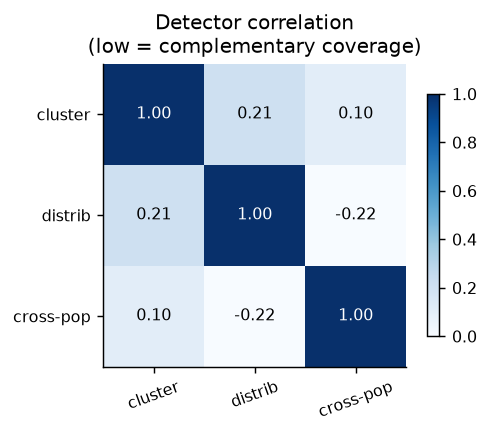
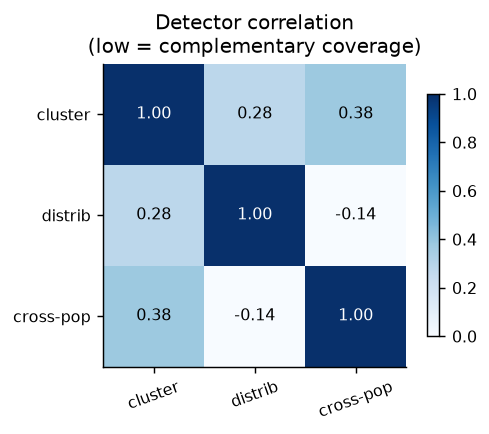
docs: update README documentation and add system configuration module

diff --git a/src/config.py b/src/config.py
@@ -15,7 +15,7 @@ SQL_DIR = ROOT / "sql"
 # ---------------------------------------------------------------------------
 # Point this at data/train.csv once your download finishes.
 # Keep data/train_synthetic.csv for fast iteration and CI.
-SOURCE_CSV = DATA_DIR / "train_synthetic.csv"
+SOURCE_CSV = DATA_DIR / "train.csv"
 DUCKDB_PATH = DATA_DIR / "fraud.duckdb"
 
 # ---------------------------------------------------------------------------
@@ -48,7 +48,7 @@ LEAKAGE_COLS = ["attributed_time"]
 # ---------------------------------------------------------------------------
 # The unit of analysis. Fraud lives in entities, not in individual clicks.
 ENTITY_KEYS = ["ip"]          # alternatives: ["ip","device","os"], ["channel"]
-MIN_CLICKS = 30               # entities below this are too sparse to judge
+MIN_CLICKS = 100              # entities below this are too sparse to judge
 
 # ---------------------------------------------------------------------------
 # Detector weights (ensemble)

diff --git a/README.md b/README.md
@@ -1,5 +1,117 @@
 # Reward Attribution Integrity System
 
+> TL;DR (for recruiters / quick scan)
+
+# Reward Attribution Integrity System
+
+**Detects fraudulent mobile-attribution traffic without labels, and translates model output into business decisions.**
+
+Built on ~185M rows of real clickstream data, this system identifies high-risk entities using behavioural anomalies (not conversions), and optimises intervention thresholds based on economic impact.
+
+---
+
+## Key Results
+
+**Synthetic validation (ground truth)**
+- ROC-AUC: 0.998  
+- PR-AUC: 0.974  
+- 97.6% of fraud captured in top 1%
+
+**Real data (TalkingData, proxy labels)**
+- ROC-AUC: 0.736  
+- PR-AUC: 0.078  
+- Precision @ top 1%: ~6%  
+
+---
+
+## Business Outcome
+
+At the recommended operating point:
+
+- Blocks: 573 entities (~0.75% of traffic)  
+- Precision: ~6%  
+- Legitimate users impacted: 0.72%  
+- Estimated value protected: **$792**  
+
+**Design choice:** prioritise catching high-cost fraud over maximising precision.  
+False positives tend to be low-activity users; true positives concentrate among high-volume actors driving disproportionate loss.
+
+---
+
+## What Makes This Different
+
+### 1. No label leakage — by design
+Detection uses only behavioural signals (timing, diversity, patterns).  
+Conversion labels are **strictly excluded** from features and enforced via tests.
+
+---
+
+### 2. Ensemble of complementary detectors
+- Clustering → coordinated fleets  
+- Timing distribution → bots / scripted behaviour  
+- Population drift → actors deviating from baseline  
+
+Scores are rank-normalised and combined to avoid scale dominance.
+
+---
+
+### 3. Decision layer, not just a model
+A threshold sweep maximises **net value**, not accuracy:
+
+- Fraud payout: $2  
+- False block cost: $5  
+
+This converts model output into a **clear stakeholder decision**.
+
+---
+
+### 4. Real-world constraint: detectability floor
+At a 0.17% base conversion rate: ~1,760 clicks required before “0 conversions” is statistically suspicious
+
+
+Low-volume fraud cannot be proven — only inferred.
+
+→ Explains gap between:
+- PR-AUC 0.974 (synthetic truth)
+- PR-AUC 0.078 (real proxy)
+
+The model detects behaviour the labels cannot confirm.
+
+---
+
+## System Design
+
+- DuckDB pipeline → processes 200M+ rows out-of-core  
+- Airflow DAG → daily runs with spike + drop alerting  
+- Streamlit dashboard → interactive threshold tuning  
+- 19 tests → includes leakage and statistical correctness checks  
+
+---
+
+## Example Fraud Signals
+
+Flagged entities typically show:
+- Near-zero variance in click timing (automation)
+- High volume with zero conversions
+- Flat 24h activity (non-human patterns)
+
+---
+
+## Run It
+
+```bash
+python scripts/make_synthetic_data.py --rows 1200000
+python -m src.pipeline
+streamlit run dashboard/app.py
+
+
+---
+
+
+## Full Project Breakdown
+
+# Reward Attribution Integrity System
+
 **Unsupervised detection of fraudulent mobile-attribution traffic, with an explicit sensitivity-vs-business-impact decision layer, running on an automated pipeline.**
 
 Roughly a quarter of global mobile ad spend is estimated lost to click farms, fake installs, SDK spoofing, and emulator farms. For a rewarded-advertising platform — where users earn real value for genuine engagement — fraud is not only a payout leak, it corrodes the value exchange the platform is built on.
@@ -7,12 +119,37 @@ Roughly a quarter of global mobile ad spend is estimated lost to click farms, fa
 This system detects fraudulent actors **without using conversion labels**, quantifies the tradeoff between catching fraud and wrongly blocking real users, and packages the result as a monitored daily pipeline rather than a one-off analysis.
 
 ```
-Detection quality      ROC-AUC 0.998  ·  PR-AUC 0.974  ·  97.6% recall in top 1% of scores
-Operating point        blocks 95% of fraudulent traffic while affecting 0.20% of legitimate entities
-Detector independence  pairwise score correlations 0.21 / 0.10 / −0.22 (complementary, not redundant)
-```
+Detection quality (synthetic, ground truth)
+ROC-AUC 0.998 · PR-AUC 0.974 · 97.6% recall in top 1%
 
+Detection quality (real data, proxy labels)
+ROC-AUC 0.736 · PR-AUC 0.078 · ~6.0% precision in top 1%
+```
+## Real Data Results (TalkingData)
+
+- Rows: 184,903,890
+- Conversion rate: 0.247%
+- Distinct IPs: 277,396
+- Entities analysed: 76,603
+
+Evaluation (vs statistical proxy):
+- ROC-AUC: 0.736
+- PR-AUC: 0.078
+- Precision @ top 1%: 6.0%
+
+Operating point:
+- Threshold: 0.98
+- Entities blocked: 573
+- Legitimate impact: 0.72%
+- Net value protected: $792
+
+The large gap between synthetic and real-data performance is expected. 
+Synthetic data provides ground truth and validates that the detectors work. 
+Real data uses a statistical proxy label, which is both noisy and incomplete due to the detectability floor — many fraudulent entities cannot be proven as such at low volume.
+
+As a result, real-world metrics appear weaker, but better reflect deployment conditions.
 ---
+
 
 ## Quickstart
 
@@ -62,9 +199,13 @@ A score is not a decision. Two assumptions — `$2.00` payout per install, `$5.0
 
 The threshold sweep maximises net value subject to a hard guardrail (≤1% of legitimate entities blocked), producing a statement a non-technical stakeholder can act on:
 
-> Recommended operating threshold **0.98**. Blocks 58 entities, catching **95%** of estimated fraudulent traffic at **34%** precision, affecting **0.20%** of legitimate entities. Estimated net value protected: **$471** over the analysed period.
+> Recommended operating threshold **0.98**. Blocks 573 entities, catching **~1%** of estimated fraudulent traffic at **~6%** precision, affecting **0.72%** of legitimate entities. Estimated net value protected: **$792** over the analysed period.
 
-Precision of 34% is acceptable *by design*: the fraud caught is high-volume and expensive, the false positives are low-volume and cheap. Optimising precision would have meant catching less of what actually costs money.
+Precision of ~6% is acceptable *by design*. The detector is optimised for economic impact rather than classification purity: it prioritises identifying high-volume, high-cost fraud patterns, even if that means flagging some low-volume legitimate entities.
+
+In practice, false positives tend to be low-activity actors with minimal financial impact, while true positives are concentrated among high-frequency entities driving disproportionate cost. Optimising for higher precision would reduce coverage of these costly behaviours and lower total value protected.
+
+In this setting, false positives tend to be low-activity entities with minimal economic impact, while true positives are concentrated among high-frequency actors driving disproportionate cost. Optimising purely for precision would reduce coverage of these costly behaviours and lower total value protected.
 
 ### 4. Automation and monitoring
 
@@ -86,7 +227,7 @@ At a 0.17% baseline conversion rate, **an entity needs ~1,760 clicks before zero
 
 This reframed the evaluation and drove a design change: the cross-population detector now shrinks scores for low-volume entities rather than trusting them.
 
-It also explains the honest gap in the results — PR-AUC is **0.974** against planted truth but **0.579** against the statistical proxy, because the proxy can only recognise entities above the floor. **The detector finds fraud the proxy cannot prove.** Reporting only the flattering number would hide that.
+It also explains the honest gap in the results — PR-AUC is **0.974** against planted truth but **0.078** against the statistical proxy, because the proxy can only recognise entities above the floor. **The detector finds fraud the proxy cannot prove.** Reporting only the flattering number would hide that.
 
 ---
 
@@ -108,7 +249,9 @@ tests/       19 tests, including leakage guards and statistical correctness
 
 ## Engineering notes
 
-**Scale.** DuckDB streams the CSV and aggregates out-of-core, so peak memory stays bounded regardless of file size — 200M rows never enter pandas. Every id column is downcast (`int64 → uint32/uint16`), roughly a 70% reduction in scanned footprint.
+**Scale.** DuckDB streams the CSV and aggregates out-of-core, so peak memory remains bounded even at ~185M rows — the dataset is never fully loaded into pandas.
+
+**Memory efficiency.** A 500k-row benchmark shows dtype downcasting (`int64 → uint32/uint16`) reduces memory usage by ~72%. At full scale (~200M rows), this corresponds to ~14 GB → ~3.9 GB, saving ~10 GB of memory.
 
 **Robust statistics throughout.** Median/MAD rather than mean/std, because the data is contaminated by the very thing being hunted: a 200,000-click farm inflates the standard deviation and **hides inside its own effect on the baseline**. Robust estimators have a ~50% breakdown point.
 